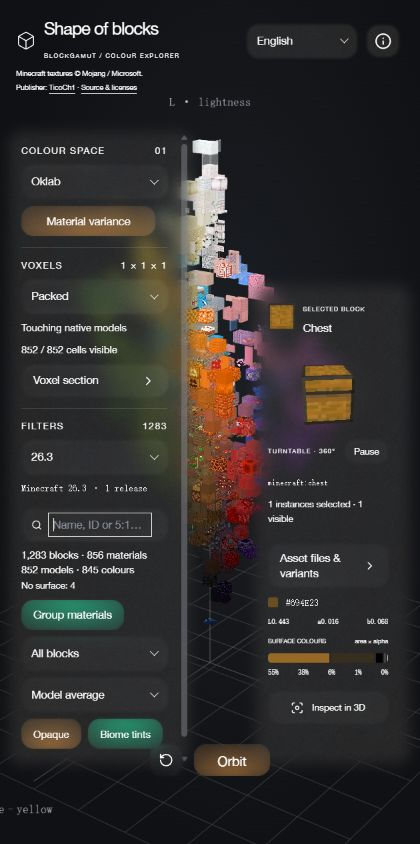
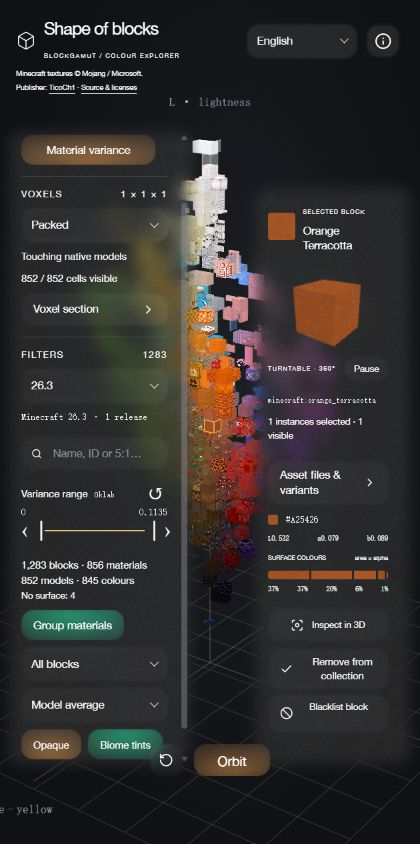
Add block blacklist, variance range filter and Chinese README

diff --git a/src/App.tsx b/src/App.tsx
@@ -1,3 +1,4 @@
+import {VarianceRange} from './VarianceRange';
 import {BlockLoader} from './BlockLoader';
 import {cleanModelGeometry,geometryBounds} from './renderGeometry.mjs';
 import {modelClass,modelClasses} from './modelClass.mjs';
@@ -7,8 +8,8 @@ import {GlassDisclosure} from './GlassDisclosure';
 import chineseNames from './blockNames.zh-CN.json';
 import {useCallback,useDeferredValue,useEffect,useMemo,useRef,useState} from 'react';
 import {Glass,GlassButton,GlassField,GlassProvider,GlassSelect,GlassSwitch,GlassScrollArea} from '@form-glass/react';
-import {Box,Check,ChevronRight,Info,Layers3,RotateCcw,Focus,Search,X} from 'lucide-react';
-import {filterBlocks,groupMaterials,samplesFor} from './color.mjs';
+import {Box,Check,ChevronRight,Info,Layers3,RotateCcw,Focus,Search,X,Ban} from 'lucide-react';
+import {filterBlocks,groupMaterials,samplesFor,materialVariance} from './color.mjs';
 import {Scene} from './Scene';
 import {Turntable} from './Turntable';
 import {useModels} from './useModels';
@@ -18,7 +19,7 @@ import {arrangements,visibleVoxels} from './voxels.mjs';
 import type {Catalog,Block,Sample,Space,Arrangement,VoxelData,VoxelSection} from './types';
 
 const allEdges=['top','right','bottom','left'] as const;
-const categories=[{value:'all',label:'All blocks'},...modelClasses,{value:'collection',label:'My collection'}];
+const categories=[{value:'all',label:'All blocks'},...modelClasses,{value:'collection',label:'My collection'},{value:'blacklist',label:'My blacklist'}];
 const faces=['average','up','north','south','east','west','down'].map(value=>({value,label:({average:'Model average',up:'Top face',down:'Bottom face',north:'North face',south:'South face',east:'East face',west:'West face'} as Record<string,string>)[value]}));
 
 function Texture({block,resources}:{block:Block;resources:import('./useModels').ModelResources|null}){const {t}=useLocale(),canvas=useRef<HTMLCanvasElement>(null);useEffect(()=>{if(block.previewTile==null||!resources||!canvas.current)return;const tile=resources.preview(block.previewTile);const context=canvas.current.getContext('2d')!;context.clearRect(0,0,32,32);context.imageSmoothingEnabled=false;context.drawImage(tile.image,tile.x,tile.y,tile.size,tile.size,0,0,32,32);},[block.previewTile,resources]);return <span className="texture" style={{backgroundColor:block.hex||'#36383d'}}>{block.previewTile!=null?<canvas width={32} height={32} ref={canvas} role="img" aria-label={t(`${block.name} texture preview`)}/>:<Box size={18}/>}</span>;}
@@ -37,7 +38,8 @@ export function App(){
  const [grouped,setGrouped]=useState(true),[focus,setFocus]=useState(0),[assetDetails,setAssetDetails]=useState(false);
  const [category,setCategory]=useState('all'),[query,setQuery]=useState(''),[face,setFace]=useState('average'),[opaque,setOpaque]=useState(false),[tinted,setTinted]=useState(true);
  const [space,setSpace]=useState<Space>('oklab'),[variance,setVariance]=useState(false),[rotate,setRotate]=useState(false),[reset,setReset]=useState(0);
- const [selected,setSelected]=useState('minecraft:orange_terracotta'),[collection,setCollection]=useState<string[]>([]);
+ const [selected,setSelected]=useState('minecraft:orange_terracotta'),[collection,setCollection]=useState<string[]>([]),[blacklist,setBlacklist]=useState<string[]>([]);
+ const [varianceRange,setVarianceRange]=useState<[number,number]>([0,Infinity]);
  const [helpPresent,setHelpPresent]=useState(false);
  const [help,setHelp]=useState(false);
  const modalActive=help||helpPresent;
@@ -55,7 +57,8 @@ export function App(){
  const geometryBlocks=useMemo(()=>(catalog?.blocks||[]).map(b=>({...b,renderBounds:resources?.pack.models[b.id]?.renderable?geometryBounds(cleanModelGeometry(resources.pack.models[b.id],resources.pack.atlas)):undefined,geometryClass:modelClass(resources?.pack.models[b.id],resources?.pack.atlas)})),[catalog,resources]);
  const localizedBlocks=useMemo(()=>geometryBlocks.map(b=>({...b,name:locale==='zh-CN'?b.chineseName||blockName(b.id,b.name):b.name,englishName:b.name,searchNames:b.name+' '+(b.chineseName||(chineseNames as Record<string,string>)[b.id]||'')})),[geometryBlocks,locale]);
  const deferredQuery=useDeferredValue(query);
- const filtered=useMemo(()=>filterBlocks(localizedBlocks,{category:category==='collection'?'all':category,query:deferredQuery,opaque,tinted,custom:category==='collection'?collection:null}) as Block[],[localizedBlocks,category,deferredQuery,opaque,tinted,collection]);
+ const maximumVariance=useMemo(()=>Math.max(...localizedBlocks.map(b=>materialVariance(b)||0)),[localizedBlocks]);
+ const filtered=useMemo(()=>filterBlocks(localizedBlocks,{category:category==='collection'||category==='blacklist'?'all':category,query:deferredQuery,opaque,tinted,custom:category==='collection'?collection:category==='blacklist'?blacklist:null,blacklist:category==='blacklist'?[]:blacklist,varianceMin:varianceRange[0],varianceMax:varianceRange[1]}) as Block[],[localizedBlocks,category,deferredQuery,opaque,tinted,collection,blacklist,varianceRange]);
  const displayed=useMemo(()=>{const result=(grouped?groupMaterials(filtered):filtered) as Block[];
   if(!deferredQuery.trim())return result;const ranks=new Map(filtered.map((b,i)=>[b.id,i]));
   const rank=(b:Block)=>Math.min(...(b.variants||[b]).map(v=>ranks.get(v.id)??Infinity));
@@ -70,7 +73,8 @@ export function App(){
  const copies=useMemo(()=>{if(!grid||!active)return null;let total=0,visible=0;for(const i of grid.indices)if(samples[i]?.block.id===active.id)total++;for(const i of visibleCells)if(samples[grid.indices[i]]?.block.id===active.id)visible++;return {total,visible};},[grid,samples,active?.id,visibleCells]);
  const activeSample=samples.find(s=>s.block.id===active?.id);
  const pick=useCallback((id:string)=>{setSelected(id);},[]);
- const resetFilters=()=>{setCategory('all');setQuery('');setOpaque(false);setTinted(true);setFace('average');};
+ const resetFilters=()=>{setCategory('all');setQuery('');setOpaque(false);setTinted(true);setFace('average');setVarianceRange([0,Infinity]);};
+ const toggleBlacklist=(block:Block)=>{const ids=(block.variants||[block]).map(b=>b.id);setBlacklist(v=>v.includes(block.id)?v.filter(id=>!ids.includes(id)):[...new Set([...v,...ids])]);};
  const reportReady=useCallback(()=>setSceneReady(true),[]),stopOrbit=useCallback(()=>setRotate(false),[]);
  const booting=!catalog||!resources||!sceneReady;
  const bootError=versionError||sceneError;
@@ -94,6 +98,7 @@ export function App(){
      {versionLoading&&<p className="micro muted" role="status">Loading release materials…</p>}
      {versionError&&!booting&&<p className="micro" role="alert">{versionError}</p>}
      <GlassField className="search-field"><Search size={14}/><input aria-label="Search blocks" placeholder="Name, ID or 5:1…" value={query} onChange={e=>setQuery(e.target.value)}/>{query&&<GlassButton fade={allEdges} aria-label="Clear search" onClick={()=>setQuery('')}><X size={13}/></GlassButton>}</GlassField>
+     <VarianceRange value={varianceRange} maximum={maximumVariance} onChange={setVarianceRange}/>
      <div className="palette-counts"><p>{filtered.length.toLocaleString()} blocks · {displayed.length.toLocaleString()} {grouped?'materials':'entries'}</p><p>{modelStats?modelStats.rendered.toLocaleString():'…'} models · {new Set(samples.map(s=>s.hex)).size.toLocaleString()} colours</p><p className="muted">No surface: {displayed.length-samples.length}{face!=='average'?` · ${samples.filter(s=>s.fallback).length} face fallbacks.`:''}</p></div>
      <GlassSwitch label="Group materials" checked={grouped} onChange={setGrouped}/><GlassSelect label="Block geometry" value={category} onChange={setCategory} options={categories}/><GlassSelect label="Colour source" value={face} onChange={setFace} options={faces}/>
 
@@ -105,7 +110,7 @@ export function App(){
     {!samples.length&&<div className="empty-scene">No blocks in this colour set.<br/><GlassButton fade={allEdges} onClick={resetFilters}>Reset filters</GlassButton></div>}
     {active&&<RevealPanel id="block-inspector" open style={{transformOrigin:"bottom right"}} className="block-inspector"><div className="inspector-content"><div className="inspector-heading"><Texture block={active} resources={resources}/><div><span className="eyebrow">SELECTED BLOCK</span><h2>{active.name}</h2></div></div><Turntable id={active.id} name={active.name} resources={resources}/><div className="block-id">{active.id}</div>{copies&&<p className="copy-count">{copies.total.toLocaleString()} instances selected · {copies.visible.toLocaleString()} visible</p>}<div className="asset-path">{active.assetFamily}</div><p className="micro muted">{active.variants?.length||1} block variant{(active.variants?.length||1)>1&&locale==='en'?'s':''} · {active.renderStatus==='native'?'Block model':active.renderStatus==='invisible'?'No visible surface':'Static renderer preview'}</p><GlassButton fade={allEdges} className="disclosure" aria-expanded={assetDetails} aria-controls="asset-disclosure" onClick={()=>setAssetDetails(v=>!v)}><span>Asset files & variants</span><ChevronRight size={13}/></GlassButton><GlassDisclosure id="asset-disclosure" open={assetDetails}><div className="asset-details"><p>{active.blockstate}</p>{active.modelSources.map(path=><p key={path}>{path}</p>)}<p>{active.colorSource}</p><p>{active.renderNote}</p>{active.variants?.map(b=><p key={b.id}>{b.name}</p>)}</div></GlassDisclosure><div className="sample-values"><i style={{background:activeSample?.hex||'#555'}}/><span>{activeSample?.hex||'No colour sample'}</span><span className="muted">{activeSample?.fallback?'average fallback':face}</span></div>{activeSample&&<div className="lab-values" data-variance={variance}>{coordinateLabels(space,variance).map((v,i)=><span key={v}>{v} <b>{(coordinates(activeSample.rgb,space,active.surface,variance)[i]*(v==='H°'?360:1)).toFixed(variance?5:3)}</b></span>)}</div>}
     {active.surface&&<div className="surface-mixture"><div className="mixture-label"><span>SURFACE COLOURS</span><span>area × alpha</span></div><div className="mixture-strip" aria-label="Surface colour proportions">{active.surface.mixture.map((c,i)=><span key={i} style={{background:c.hex,flex:c.weight}} title={`${c.hex} · ${(c.weight*100).toFixed(1)}%`}/>)}</div><div className="mixture-values">{active.surface.mixture.map((c,i)=><span key={i}><i style={{background:c.hex}}/>{Math.round(c.weight*100)}%</span>)}</div></div>}
-    <GlassButton fade={allEdges} className="focus-button" onClick={()=>setFocus(v=>v+1)}><Focus size={13}/> Inspect in 3D</GlassButton><GlassButton fade={allEdges} className="collect-button" onClick={()=>setCollection(v=>v.includes(active.id)?v.filter(id=>id!==active.id):[...v,active.id])}>{collection.includes(active.id)?<Check size={13}/>:<Layers3 size={13}/>} <LocaleLabel text={collection.includes(active.id)?'Remove from collection':'Collect block'} alternatives={['Collect block','Remove from collection']}/></GlassButton></div></RevealPanel>}
+    <GlassButton fade={allEdges} className="focus-button" onClick={()=>setFocus(v=>v+1)}><Focus size={13}/> Inspect in 3D</GlassButton><GlassButton fade={allEdges} className="collect-button" onClick={()=>setCollection(v=>v.includes(active.id)?v.filter(id=>id!==active.id):[...v,active.id])}>{collection.includes(active.id)?<Check size={13}/>:<Layers3 size={13}/>} <LocaleLabel text={collection.includes(active.id)?'Remove from collection':'Collect block'} alternatives={['Collect block','Remove from collection']}/></GlassButton><GlassButton fade={allEdges} className="blacklist-button" onClick={()=>toggleBlacklist(active)}><Ban size={13}/><LocaleLabel text={blacklist.includes(active.id)?'Remove from blacklist':'Blacklist block'} alternatives={['Blacklist block','Remove from blacklist']}/></GlassButton></div></RevealPanel>}
     {!active&&<RevealPanel id="air-inspector" open className="block-inspector air-inspector" style={{transformOrigin:'bottom right'}}><div className="inspector-content"><div className="inspector-heading"><Box size={24}/><div><span className="eyebrow">SELECTED BLOCK</span><h2>Air</h2></div></div><div className="air-symbol" aria-hidden="true">∅</div><div className="block-id">minecraft:air</div><p className="micro muted">No block selected</p></div></RevealPanel>}
 
    </>}

diff --git a/src/VarianceRange.tsx b/src/VarianceRange.tsx
@@ -1,0 +1,27 @@
+import {useEffect,useRef,useState,type PointerEvent,type KeyboardEvent} from 'react';
+import {useLocale} from './i18n';
+
+const resolution=1000,floor=1e-6;
+export const formatVariance=(value:number)=>value===0?'0':value<.0001?value.toExponential(2):Number(value.toPrecision(4)).toString();
+
+export function VarianceRange({value,maximum,onChange}:{value:[number,number];maximum:number;onChange:(value:[number,number])=>void}){
+ const {t}=useLocale(),domain=Math.max(maximum,value[0],Number.isFinite(value[1])?value[1]:0),span=Math.log1p(domain/floor);
+ const tick=(v:number)=>Math.round(Math.log1p(v/floor)/span*resolution);
+ const amount=(v:number)=>v===resolution?domain:Math.expm1(v/resolution*span)*floor;
+ const [draft,setDraft]=useState<[number,number]>([tick(value[0]),Number.isFinite(value[1])?tick(value[1]):resolution]);
+ const current=useRef(draft),rail=useRef<HTMLDivElement>(null),drag=useRef<{index:number;pointer:number;left:number;width:number;offset:number}|null>(null);
+ useEffect(()=>{const next:[number,number]=[tick(value[0]),Number.isFinite(value[1])?tick(value[1]):resolution];current.current=next;setDraft(next);},[value[0],value[1],domain]);
+ const set=(index:number,position:number)=>{const next:[number,number]=[...current.current];next[index]=Math.max(index===0?0:next[0],Math.min(index===0?next[1]:resolution,position));current.current=next;setDraft(next);};
+ const commit=()=>onChange([amount(current.current[0]),current.current[1]===resolution?Infinity:amount(current.current[1])]);
+ const start=(event:PointerEvent<HTMLButtonElement>,index:number)=>{if(event.button!==0)return;const box=rail.current!.getBoundingClientRect();drag.current={index,pointer:event.pointerId,left:box.left,width:box.width,offset:event.clientX-box.left-current.current[index]/resolution*box.width};event.currentTarget.setPointerCapture(event.pointerId);event.preventDefault();};
+ const move=(event:PointerEvent<HTMLButtonElement>)=>{const d=drag.current;if(d?.pointer===event.pointerId)set(d.index,Math.round((event.clientX-d.left-d.offset)/d.width*resolution));};
+ const finish=()=>{drag.current=null;commit();};
+ const key=(event:KeyboardEvent<HTMLButtonElement>,index:number)=>{let next=current.current[index];switch(event.key){case 'ArrowLeft':case 'ArrowDown':next-=event.shiftKey?10:1;break;case 'ArrowRight':case 'ArrowUp':next+=event.shiftKey?10:1;break;case 'PageDown':next-=100;break;case 'PageUp':next+=100;break;case 'Home':next=0;break;case 'End':next=resolution;break;default:return;}event.preventDefault();set(index,next);commit();};
+ return <section className="variance-range" aria-label={t('Variance range')}>
+  <div className="variance-range-heading"><span>{t('Variance range')} <small>Oklab</small></span><button type="button" className="variance-reset" aria-label={t('Reset variance range')} onClick={()=>onChange([0,Infinity])}>↺</button></div>
+  <div className="variance-values"><output>{formatVariance(amount(draft[0]))}</output><output>{formatVariance(amount(draft[1]))}</output></div>
+  <div className="variance-track" ref={rail}><span className="variance-rail"/><span className="variance-selected" style={{left:`${draft[0]/10}%`,width:`${(draft[1]-draft[0])/10}%`}}/>
+   {[0,1].map(index=><button key={index} type="button" role="slider" className={`variance-handle handle-${index}`} aria-label={t(index===0?'Minimum variance':'Maximum variance')} aria-valuemin={index===0?0:amount(draft[0])} aria-valuemax={index===0?amount(draft[1]):domain} aria-valuenow={amount(draft[index])} aria-valuetext={formatVariance(amount(draft[index]))} aria-orientation="horizontal" style={{left:`${draft[index]/10}%`}} onPointerDown={e=>start(e,index)} onPointerMove={move} onPointerUp={finish} onPointerCancel={finish} onKeyDown={e=>key(e,index)}><span aria-hidden="true">{index===0?'‹│':'│›'}</span></button>)}
+  </div>
+ </section>;
+}

diff --git a/src/style.css b/src/style.css
@@ -212,3 +212,19 @@ html [data-form-glass-root] .glass-select-option{height:auto;min-height:var(--se
   .inspector-content .surface-mixture{margin:8px 0}
   .inspector-content .lab-values{margin:7px 0}
 }
+
+.blacklist-button{display:flex;width:100%;gap:8px;font-size:10px!important;margin-top:6px;white-space:normal!important;line-height:1.4}
+.blacklist-button>svg{flex-shrink:0}.blacklist-button>.locale-label{min-width:0}
+.variance-range{margin:5px 0 7px;flex-shrink:0}
+.variance-range-heading,.variance-values{display:flex;align-items:center;justify-content:space-between;gap:8px}
+.variance-range-heading{font-size:10px;color:#cbd0d8}.variance-range-heading small{font:8px monospace;color:var(--muted);margin-left:4px}
+.variance-reset{border:0;background:transparent;color:var(--muted);width:24px;height:24px;padding:0;font-size:17px}
+.variance-reset:hover{color:#f0d293}.variance-values{font:9px monospace;color:#e8c67a;margin:1px 0 0}
+.variance-track{position:relative;height:27px;margin:0 23px;touch-action:none}
+.variance-rail,.variance-selected{position:absolute;top:13px;height:1px;pointer-events:none}
+.variance-rail{left:0;right:0;background:#ffffff30}.variance-selected{background:#e8c67a}
+.variance-handle{position:absolute;top:0;width:23px;height:27px;padding:0;border:0;background:transparent;color:#e8c67a;touch-action:none;cursor:ew-resize;font:20px/27px monospace}
+.variance-handle.handle-0{transform:translateX(-100%)}.variance-handle.handle-1{transform:none}
+.variance-handle:hover,.variance-handle:active{color:#fff0cb;text-shadow:0 0 8px #e8c67a70}
+.variance-handle:focus-visible{border-radius:3px;outline:1px solid #e8c67a!important;outline-offset:1px}
+@media(max-width:600px){.inspector-content .collect-button{display:flex!important}.blacklist-button{font-size:9px!important}}

diff --git a/README.zh-CN.md b/README.zh-CN.md
@@ -1,0 +1,171 @@
+# BlockGamut
+
+[English](README.md) · 简体中文
+
+[打开网站](https://ticoch1.github.io/BlockGamut/) · [源代码](https://github.com/TicoCh1/BlockGamut)
+
+BlockGamut 是 Minecraft Java 版方块的三维色彩与材质探索器。它将保留原版尺寸和纹理的方块模型排列在色彩空间中，帮助建造者比较配色、寻找相近材质、分析纹理变化，并查看不同正式版本中的方块外观。
+
+网站完全在浏览器中运行，无需安装 Minecraft、登录账号、上传世界或连接后端。默认语言为英语，也支持简体中文。
+
+项目作者：[TicoCh1](https://github.com/TicoCh1)。Minecraft 材质 © Mojang / Microsoft。
+
+![方块色彩探索器总览](media/screenshots/01-overview.jpg)
+
+## 八种色彩空间
+
+通过左侧的“坐标空间”选择不同坐标系，比较明度、RGB 通道或色相关系。各视图使用所选 Minecraft 版本的材质，检查器保留准确的数值。
+
+| Oklab | sRGB |
+| --- | --- |
+| ![Oklab](media/screenshots/01-overview.jpg) | ![sRGB](media/screenshots/02-srgb.jpg) |
+| **线性 RGB** | **HSV** |
+| ![线性 RGB](media/screenshots/03-linear-rgb.jpg) | ![HSV](media/screenshots/04-hsv.jpg) |
+| **HSL 圆柱** | **HSL 双锥** |
+| ![HSL 圆柱](media/screenshots/05-hsl.jpg) | ![HSL 双锥](media/screenshots/06-hsl-bicone.jpg) |
+| **CIE XYZ · D65** | **CIELAB · D65** |
+| ![CIE XYZ](media/screenshots/07-xyz.jpg) | ![CIELAB](media/screenshots/08-cielab.jpg) |
+
+### 材质方差模式
+
+任意色彩空间都能开启“材质方差”，按照纹理变化程度排列方块。统计使用未打光的原始纹理像素，按模型表面面积和透明度加权。坐标轴采用固定对数比例，零值也具有有限位置；检查器显示未经对数变换的总体方差。色相方差使用最短圆弧距离，并排除无色像素。
+
+![对数坐标中的材质方差](media/screenshots/11-variance.jpg)
+
+## 三种排列方式
+
+- **间隔**：保留原版模型尺寸，并留出至少一格空隙。
+- **无间隙**：在整数格点上排列，预留模型实际占用的空间。
+- **密铺**：每个显示材质至少保留一格，再用最接近的材质填充其他色域内格子。同一方块的多个实例共用选中状态。
+
+改变设置时，方块使用同步曼哈顿路径移动。密铺只移动代表实例，其余填充通过淡入淡出替换。系统的“减少动态效果”偏好会关闭移动动画，并让模型转台默认暂停。
+
+| 间隔 | 无间隙 | 密铺 |
+| --- | --- | --- |
+| ![间隔模型](media/screenshots/09-spaced.jpg) | ![无间隙模型](media/screenshots/01-overview.jpg) | ![密铺](media/screenshots/10-dense.jpg) |
+
+碰撞避让可能让模型偏离精确的数学颜色坐标。需要准确比较时，请使用检查器中的数值。
+
+## 体素切片
+
+无间隙或密铺模式下，点击“体素切片”打开可移动窗口。选择切片轴和位置，保留一侧体积或单层格子，也可以反转保留方向。色相类空间在关闭方差模式时还支持色相角和半径切片。
+
+拖动窗口标题栏可移动窗口；聚焦拖动按钮后，也可以使用方向键移动，按住 Shift 进行一像素微调。位置滑块会同时更新二维纹理切片和三维切面。点击切片中的格子，会选中该方块的全部实例。
+
+| 体积切面 | 反转保留方向 |
+| --- | --- |
+| ![体积切面和纹理切片](media/screenshots/12-cutaway.jpg) | ![反转切面](media/screenshots/12b-reversed.jpg) |
+| **单层格子** | **色相角切面** |
+| ![单层](media/screenshots/13-layer.jpg) | ![色相切面](media/screenshots/14-hue-section.jpg) |
+
+![半径切面](media/screenshots/15-radius-section.jpg)
+
+## 筛选与历史材质
+
+“筛选”区域可以组合 Minecraft 版本、搜索、方差范围、几何类型、颜色来源、材质分组、不透明条件和群系染色条件。
+
+当前资源覆盖 Mojang 官方版本清单中 **1.7.2 至 26.3 的 84 个 release 条目**，不包含快照。没有所展示材质变化的版本合并为 **31 组**，以最早版本命名，需要时添加 `+`。例如 **1.7.2+** 覆盖 1.7.2–1.7.10，界面会显示完整范围。初始选择最新的已收录版本；未来版本需要更新资源数据。
+
+切换版本时，可用方块、原版纹理、模型、颜色和动画一起切换。旧版本使用旧材质。原版的大规模默认材质更新发生在 [Java 1.14](https://www.minecraft.net/en-us/article/village---pillage-out-java-)。
+
+![最早版本组及其原始材质](media/screenshots/16-old-release.jpg)
+
+“材质分组”按实际解析后的纹理集合和染色合并材质，优先使用完整立方体作为代表。颜色相近本身不会导致合并。关闭分组可以查看各个变体。几何筛选支持完整立方体、平面、实体／超尺寸预览和其他模型；颜色来源可以选择模型平均颜色或六个面的颜色。
+
+![几何、表面与不透明条件的组合筛选](media/screenshots/17-filters.jpg)
+
+### 搜索、选择与空结果
+
+搜索支持英文或中文方块名、命名空间 ID，以及 `5:1` 等传统数字 ID。点击三维方块进行选择。没有选中方块，或筛选后没有结果时，检查器显示 **minecraft:air**。空结果状态下可以点击“重置筛选”。
+
+| 传统编号搜索 | 空结果 |
+| --- | --- |
+| ![搜索云杉木板](media/screenshots/20-search.jpg) | ![空结果和空气检查器](media/screenshots/21-air.jpg) |
+
+控制面板持续显示。独立方块列表入口及原来的右上角控制开关已隐藏。
+
+### 方差范围
+
+范围筛选使用整块模型原始纹理的 **Oklab 总体方差之和：`Var(L) + Var(a) + Var(b)`**。它在平均颜色视图和材质方差视图中均有效，不随色彩空间或颜色来源选择改变。上下限均包含在结果中。
+
+同一条对数轨道上有 `‹│` 和 `│›` 两个滑块，端点读数是实际方差。拖动松开后应用筛选；方向键直接调整，Shift 加大步长，Page Up／Down 大幅调整，Home／End 移到边界。两个滑块不能交叉，重合时仍能分别操作。点击重置箭头恢复完整范围。
+
+![双滑块方差范围筛选](media/screenshots/29-variance-range.jpg)
+
+## 检查原版模型与收藏
+
+检查器包含旋转模型预览、方块 ID、资源文件和变体、采样颜色、坐标或方差，以及五种代表表面颜色的比例。可以暂停／恢复转台，或点击“三维聚焦”将相机移到所选方块附近。
+
+模型保留原版尺寸和透明度，支持非立方体、交叉植物平面、多部件模型、完整高植物及特殊渲染器的静态预览。材质动画保留原版帧序列、持续时间和插值；末地传送门使用分层动态预览。
+
+| 资源文件与表面统计 | 原版箱子模型 |
+| --- | --- |
+| ![展开资源文件的检查器](media/screenshots/18-inspector.jpg) | ![箱子模型与转台](media/screenshots/25-native-models.jpg) |
+
+![在相邻模型中聚焦选中方块](media/screenshots/24-focus-camera.jpg)
+
+在检查器中点击“收藏方块”，再将几何筛选切换到“我的收藏”，即可查看选定材质。收藏保留到当前页面会话结束，刷新页面后清空。
+
+![收藏中的方块](media/screenshots/19-collection.jpg)
+
+### 黑名单
+
+点击检查器中的“加入黑名单”，即可从普通视图和“我的收藏”中隐藏所选方块。开启材质分组时，操作包含该材质组展示的全部变体，避免其他相同材质变体立即替代被隐藏的代表。黑名单在材质分组前生效，与其他筛选条件取交集。
+
+将几何筛选切换到“我的黑名单”，选择其中的方块，再点击“移出黑名单”即可恢复。该视图仍受搜索和方差范围等条件影响；如果找不到条目，可以先重置筛选。重置筛选不会清空黑名单。黑名单与收藏一样保留在当前页面会话中，刷新页面后清空。
+
+![黑名单中的材质与恢复按钮](media/screenshots/28-blacklist.jpg)
+
+## 相机、语言与布局
+
+拖动场景旋转视角，滚轮缩放；开启“自动旋转”让场景持续转动，或点击“重置相机”返回总览。语言选择器支持英语和简体中文，并记住该浏览器上的语言选择。
+
+面板根据视口调整。长内容在面板内部滚动，玻璃外框与装饰边缘不承担内容滚动。信息按钮提供内置的数据与方法说明。
+
+| 简体中文界面 | 数据与方法说明 |
+| --- | --- |
+| ![简体中文界面](media/screenshots/22-chinese.jpg) | ![内置说明](media/screenshots/23-about.jpg) |
+
+<img src="media/screenshots/26-mobile.jpg" alt="手机布局中的控制面板和检查器" width="360">
+
+## 资源结构与限制
+
+资源采用增量存储：相同纹理像素只保存一次，每个材质版本组记录相对于上一组变化的目录条目、模型和动画信息。版本资源总计约 **12.7 MiB**，3,569 个独立纹理块打包在七张图集中。没有变化的版本不会再复制一套材质。运行时会缓存重建后的版本数据。
+
+颜色与方差描述原始纹理像素，不代表游戏中的光照效果。五种代表颜色仅用于展示，不参与方差计算。每种方块采用一个代表放置状态；特殊渲染器使用关闭／静止姿态、默认皮肤及无额外装饰的旗帜或陶罐。世界光照、粒子、动态方块实体和自定义方块数据不在预览范围内。不可见方块保留在目录中，不虚构表面颜色；空气种类和物品展示框不加入放置方块图谱。
+
+三维场景需要支持 WebGL 的现代浏览器。密铺模式可能比无间隙模式消耗更多资源，尤其是大型 RGB 色域。
+
+## 本地运行
+
+使用 **Node.js 22 或更新版本**和 npm：
+
+```sh
+npm ci
+npm run dev
+```
+
+打开 `http://127.0.0.1:5190/`。生产构建与预览：
+
+```sh
+npm run build
+npm run preview
+```
+
+预览地址为 `http://127.0.0.1:4190/`。静态网站输出到 `dist/`。
+
+## 静态部署
+
+Vite 使用相对资源路径，构建结果可部署在仓库子目录中，无需服务器 API。[GitHub Pages 工作流](.github/workflows/pages.yml)会在 `main` 更新后安装锁定依赖、构建网站并发布 `dist/`。
+
+Fork 后，在仓库 Pages 设置中选择 **GitHub Actions** 作为来源。其他静态网站服务也可以直接托管 `dist/` 的内容。
+
+公开仓库保留网站代码、运行资源、构建支持、许可证及图文 README。本地开发记录、私人配置、凭据、缓存和生成的构建目录不上传。
+
+## 许可与署名
+
+BlockGamut 的原始应用代码与文档采用 **GPL-3.0-or-later** copyleft 许可证，见 [LICENSE](LICENSE)。第三方组件保留其原有条款与署名，见 [THIRD_PARTY_NOTICES.md](THIRD_PARTY_NOTICES.md) 和 [licenses/](licenses/)。
+
+Minecraft 材质、模型及相关资源 © Mojang / Microsoft。见 [Minecraft 资源版权](licenses/MINECRAFT-ASSETS.md)。
+
+Oklab 转换与传统方块编号的来源署名保留在源文件和第三方说明中。交互和布局参考 ShapeOfColour。

diff --git a/README.md b/README.md
@@ -1,5 +1,7 @@
 # BlockGamut
 
+English · [简体中文](README.zh-CN.md)
+
 [Open the explorer](https://ticoch1.github.io/BlockGamut/) · [Source](https://github.com/TicoCh1/BlockGamut)
 
 BlockGamut is an interactive Minecraft Java block colour and material atlas. It places textured, native-size block models in three-dimensional colour spaces so builders can compare palettes, find neighbouring materials, inspect texture variation and explore how block appearances changed between releases.
@@ -82,6 +84,14 @@ Search accepts English or Chinese block names, namespaced IDs and legacy numeric
 
 The controls stay visible. The separate block-library entry and its former top-right controls are intentionally hidden.
 
+### Variance range
+
+The **Variance range** filter uses total Oklab population variance, `Var(L) + Var(a) + Var(b)`, from the original whole-model texture pixels. It works in average-colour and material-variance views, independently of the current colour space and face selector. Both endpoints are inclusive.
+
+The two `‹│` / `│›` handles share one logarithmic track. The endpoint readouts show actual variance values. Drag and release to apply; arrow keys adjust a handle immediately, Shift uses larger steps, Page Up/Down move farther, and Home/End move to a limit. The handles cannot cross and remain separately reachable when they meet. The reset arrow restores the complete range.
+
+![Dual-handle variance range filter](media/screenshots/29-variance-range.jpg)
+
 ## Inspect native models and build a collection
 
 The inspector contains a rotating model preview, block ID, source files and variants, sampled colour, coordinates or variances, and a five-colour surface summary. Pause or resume the turntable, and choose **Inspect in 3D** to move the camera close to the selected block.
@@ -94,9 +104,17 @@ Models retain their native dimensions and alpha. Previews include non-cubes, cro
 
 ![Camera focused on a selected block among neighbouring native models](media/screenshots/24-focus-camera.jpg)
 
-Use **Collect block** in the desktop inspector, then select **My collection** in the geometry filter to view your chosen palette. Collections last for the current page session and reset on reload.
+Use **Collect block** in the inspector, then select **My collection** in the geometry filter to view your chosen palette. Collections last for the current page session and reset on reload.
 
 ![A block saved in the current collection](media/screenshots/19-collection.jpg)
+
+### Blacklist
+
+Choose **Blacklist block** in the inspector to hide a block from the normal atlas and from **My collection**. With material grouping enabled, the action includes all variants of the displayed material, so another equivalent variant does not immediately replace it. Entries are excluded before material grouping and combine with the other filters.
+
+Select **My blacklist** in the geometry filter to view excluded blocks. Select one and choose **Remove from blacklist** to restore it. Search and variance filters still apply in this view; use **Reset filters** if the current combination hides an entry. Resetting filters does not clear the blacklist. Like the collection, the blacklist lasts for the current page session and resets on reload.
+
+![Blacklisted material with its restore action](media/screenshots/28-blacklist.jpg)
 
 ## Camera, language and layout
 
